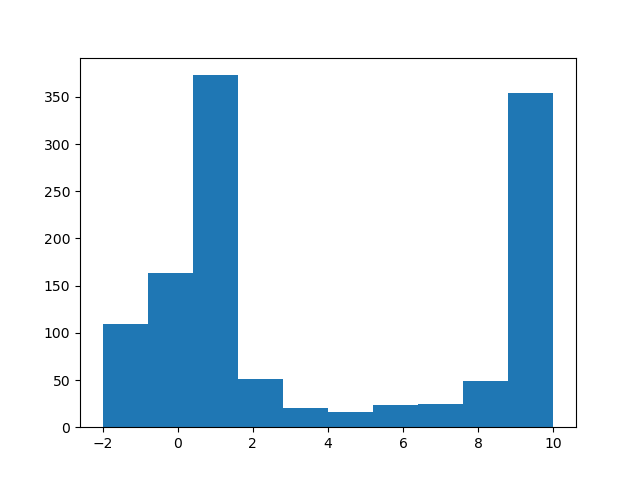
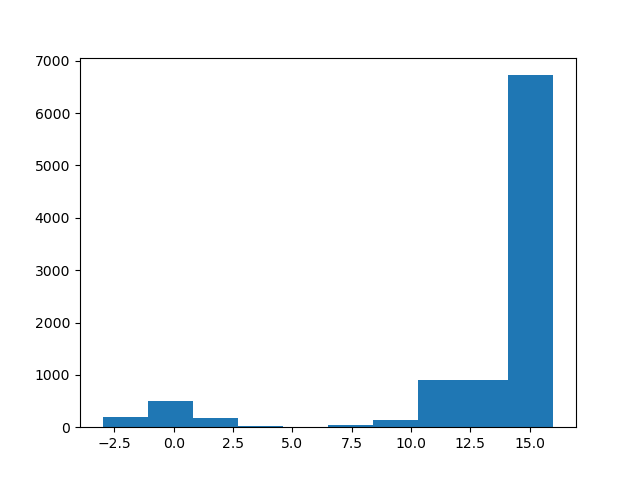
smaller

diff --git a/knot_evol.py b/knot_evol.py
@@ -21,6 +21,12 @@ To Implement:
     * Proteins (spec. bonded knotoids (capture forces) ~ protein_init.py ~ load in protein from PDB and automate)
     * S^{2} in Z^{4}, (S^{n} in Z^{n+2})?
     * TQFT inspired things?
+
+To Do:
+    * CNN with the entire state (large knot thats managed to span entire state space) and predict the knot type.
+
+Currently (06/03/25):
+    * Need a way to get extremely entangled configurations
 '''
 
 @njit(parallel=True)
@@ -500,4 +506,4 @@ def main(discretization, temperature, it):
         plt.show()
 
 
-main(discretization= 100, temperature=0.1, it= 100000000)
+main(discretization= 100, temperature=0.01, it= 1000000)
